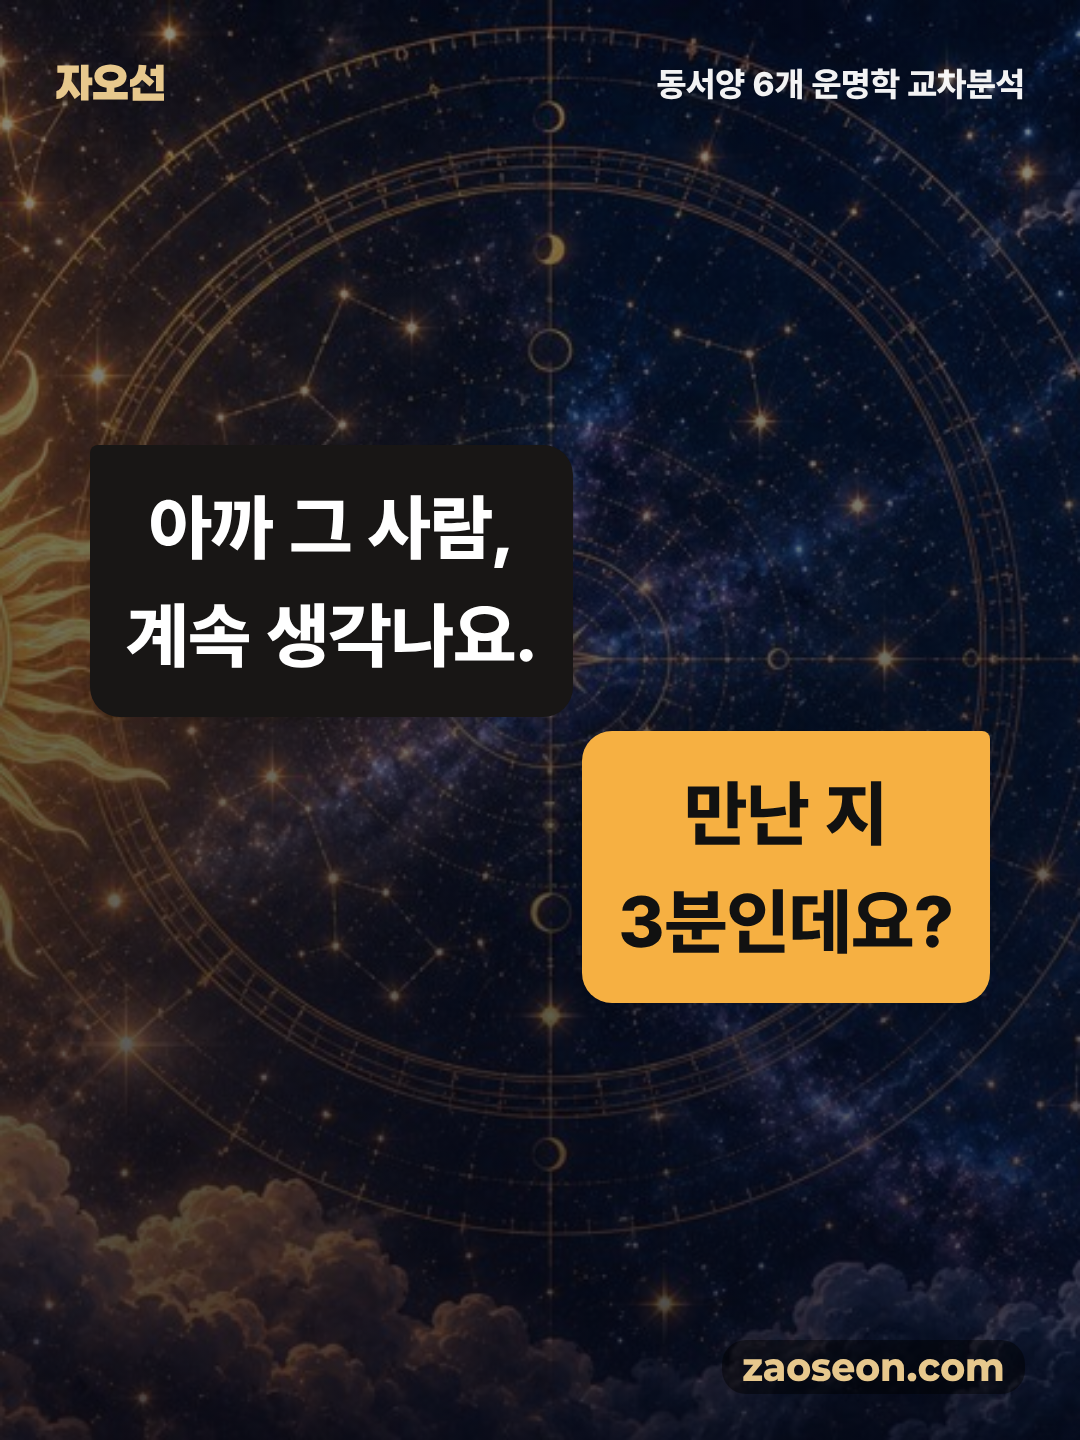
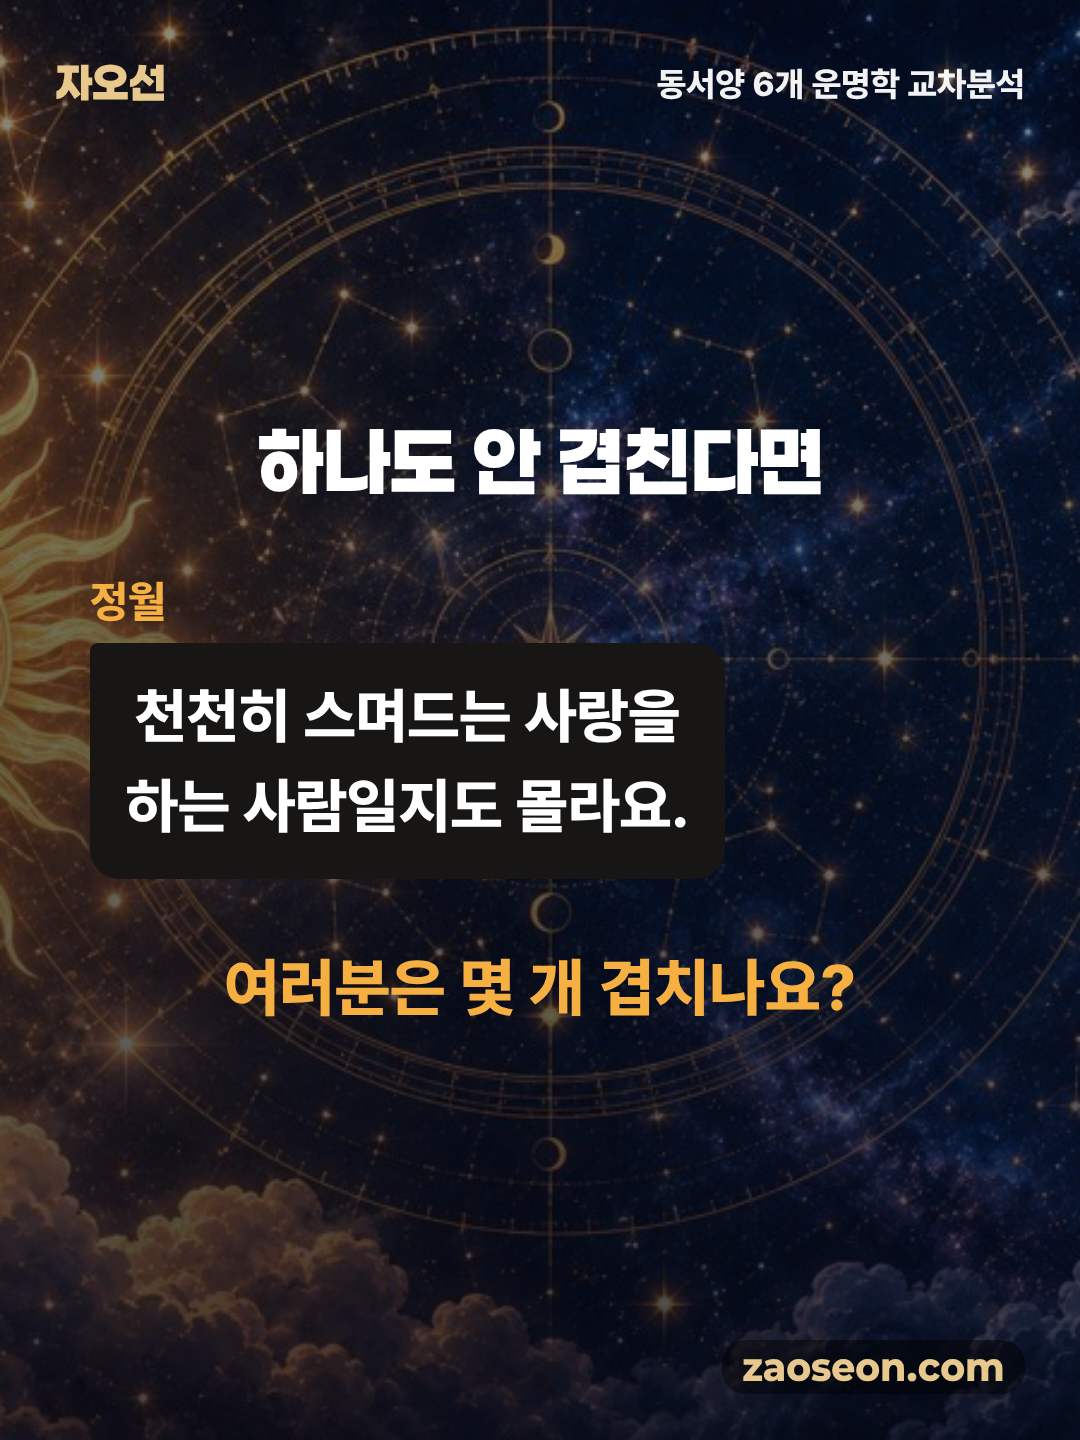
VD 시안 C: 의미 없는 대화 장면 2장 삭제

Changed region(s): [[0.0611, 0.2812, 0.9167, 0.7188]]

diff --git a/2026-vd-mockups/build3.py b/2026-vd-mockups/build3.py
@@ -149,14 +149,10 @@ def B4():
 def C1():
     p = new(); place(p, [T(p, '정월의 연애 테스트', 60, GOLD, 'body', 1.3, C_, name='라벨'), CHAT(p, [('3초 만에 사랑에\n빠지는 사람,\n주변에 꼭 한 명 있죠?', 'l'), ('있어요, 있어요!', 'r')], 64, avatar='v2_straight', name='정월')]); return p
 def C2():
-    p = new(); place(p, [CHAT(p, [('아까 그 사람,\n계속 생각나요.', 'l'), ('만난 지\n3분인데요?', 'r')], 72)]); return p
-def C3():
-    p = new(); place(p, [T(p, '사주 · 별자리 · 숫자로\n보면 이래요', 80, align=C_, name='제목'), CHAT(p, [('사주 · 병화일생,\n도화가 있어요', 'l'), ('별자리 · 양자리와\n사자자리예요', 'l'), ('숫자 · 3번과\n5번이에요', 'l')], 60, name='정월')]); return p
-def C4():
     p = new(); place(p, [T(p, '하나도 안 겹친다면', 76, align=C_, name='제목'), CHAT(p, [('천천히 스며드는 사랑을\n하는 사람일지도 몰라요.', 'l')], 60, name='정월'), T(p, '여러분은 몇 개 겹치나요?', 64, GOLD, 'body', 1.5, C_, name='질문')]); return p
-def C5():
+def C3():
     p = new(); place(p, [CHAT(p, [('내 숫자를 댓글로\n남겨 주세요.', 'l')], 64, avatar='v4_glasses', name='정월'), PILL(p, '프로필 링크에서\n생년월일을 입력해 보세요', 52, 900, 'center')]); return p
-PAGES = dict(A1=A1, A2=A2, A3=A3, A4=A4, B1=B1, B2=B2, B3=B3, B4=B4, C1=C1, C2=C2, C3=C3, C4=C4, C5=C5)
+PAGES = dict(A1=A1, A2=A2, A3=A3, A4=A4, B1=B1, B2=B2, B3=B3, B4=B4, C1=C1, C2=C2, C3=C3)
 def metrics(p):
     r = sorted([(n, *b) for n, b in p.els if n != '정월' and n != '휴대폰' or True], key=lambda e: e[2])
     t = min(e[2] for e in r); b = max(e[4] for e in r); return t, b, (t + b) / 2

diff --git a/2026-vd-mockups/README.md b/2026-vd-mockups/README.md
@@ -2,7 +2,7 @@
 주제: "3초 만에 사랑에 빠지는 사람"(10/10 18:30 예약 글의 값). 세 안은 구성 문법이 다르다. 강조색은 같다(금).
 - VD-A Editorial Scene(4장): 큰 글 두 덩어리, 위와 아래에 나눠 둔다. 정월은 표지에서만(1/4).
 - VD-B Utility Chart(4장): 사주·별자리·숫자 비교표가 본체. 정월은 마지막 장(1/4).
-- VD-C Micro Story(5장): 카카오톡식 대화창(정월 #181615 칸, 독자 강조색 칸). 정월 아바타는 1컷과 5컷. C2·C1 답장은 지어낸 대사다.
+- VD-C 대화 장면(3장): 정월이 말을 거는 장면만 카톡식 대화창으로 둔다. 지어낸 대사 장면(옛 C2)과 값 나열 장면(옛 C3)은 뺐다(대표 10/10 13:07).
 ## 만든 방법 (v2의 잘못을 바로잡음)
 - v2는 좌표를 눈대중으로 정해 R21·R29 간격을 어겼다. v3는 `pipeline/template_engine.Page`(카드 안전영역 검증)로 만들고, 세로 위치는 블록 높이를 더해 계산한다.
 - R46·R47(10/10): 본문 56px 안팎 이상, 덩어리 사이 간격 최대 120px. 묶음 y183~1265, 가운데 y724, 글 사이 40px 이상, 그림·박스와 글 사이 60px 이상.
